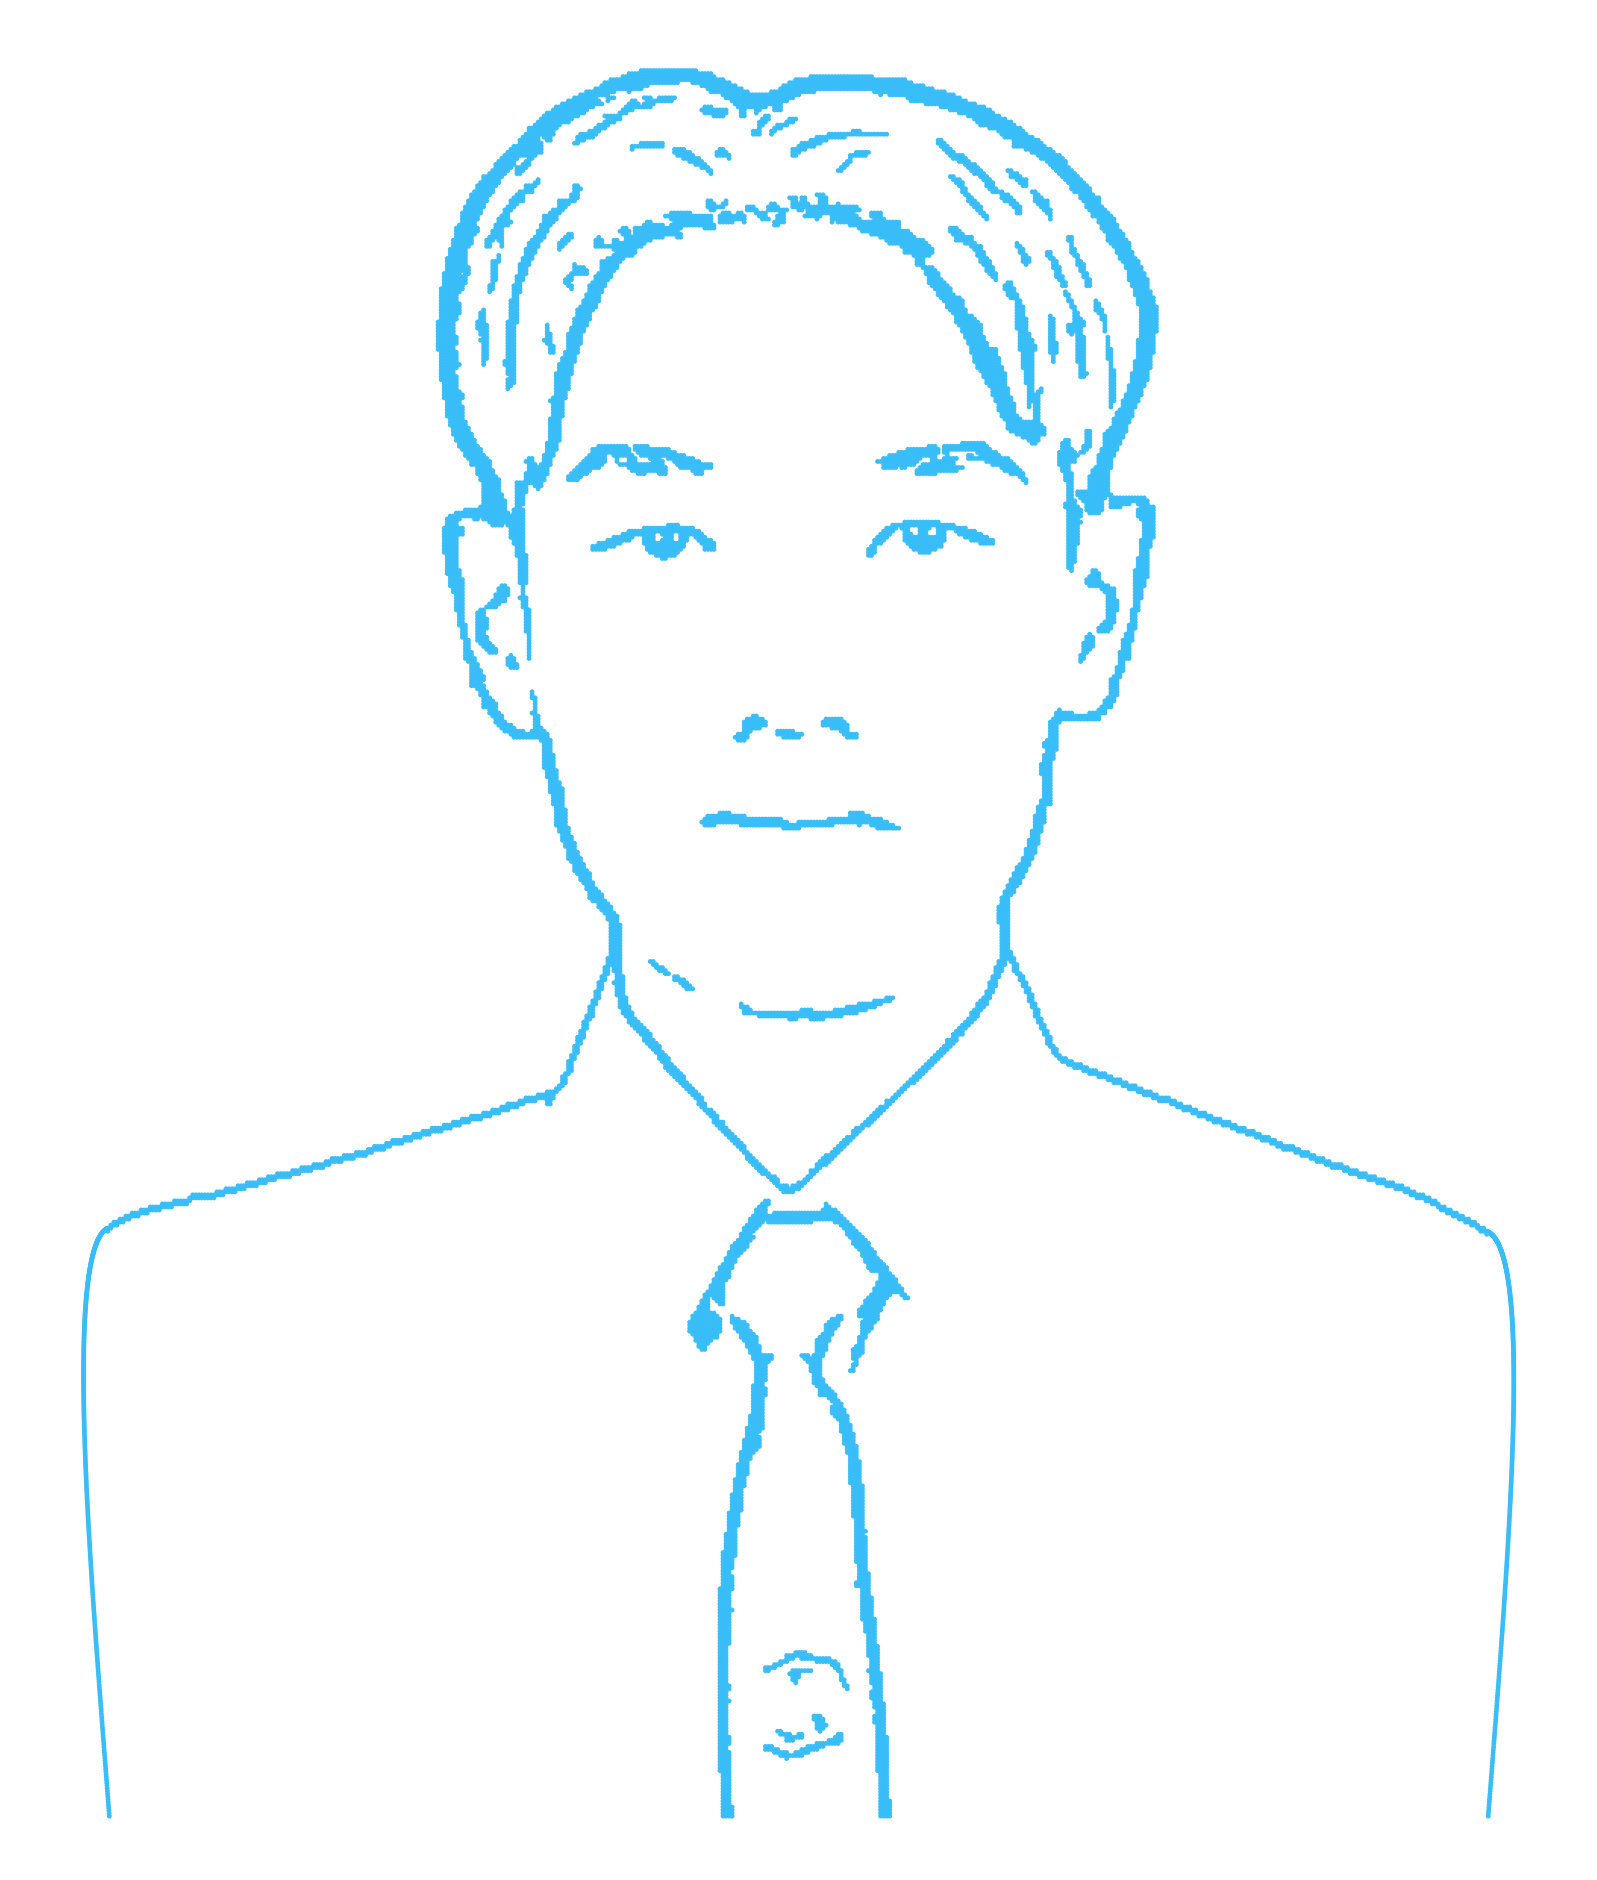
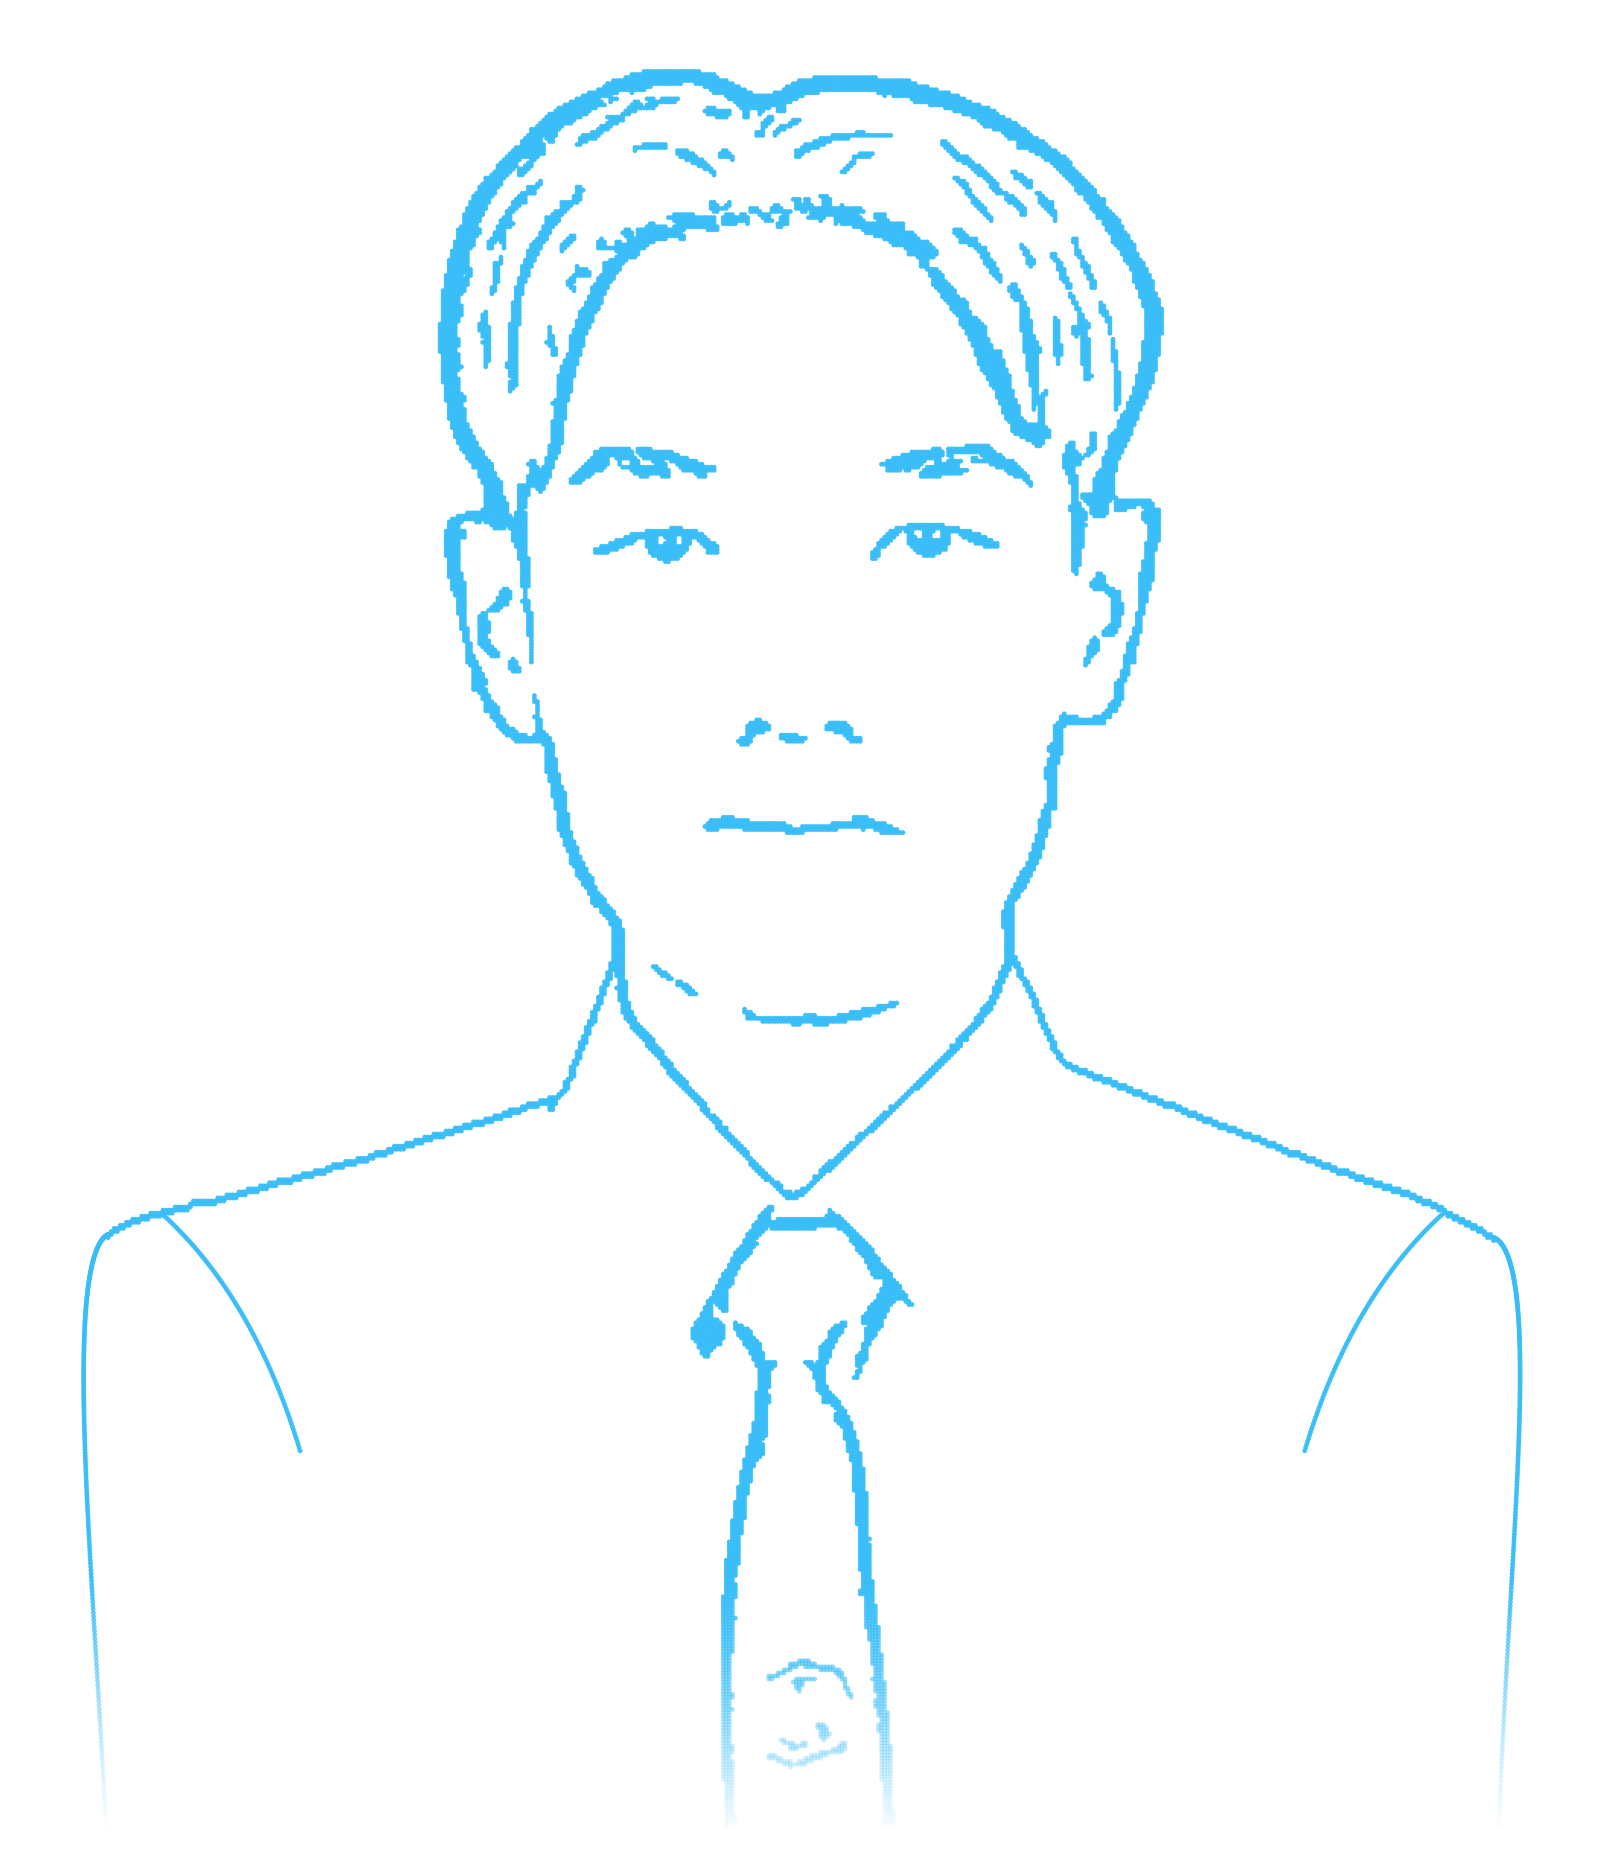
style: remove hero gray container box and border, add natural sleeve seams and soft fade to line portrait

diff --git a/css/styles.css b/css/styles.css
@@ -151,7 +151,6 @@ html.dark {
 .full-width-panel,
 .assessment-card-panel,
 .clean-capability-card,
-.hero-illustration-wrapper,
 .hero-visual-frame,
 .work-card,
 .work-org-card,
@@ -4360,32 +4359,32 @@ html.dark #back-to-top .btt-ring-circle {
    Clean & Elegant Portfolio Styles ("ธรรมดาและสวย")
    ========================================================================== */
 
-/* Hero Illustration Container */
+/* Hero Illustration Container (Pure Frameless Floating Visual) */
 .hero-illustration-wrapper {
   position: relative;
-  overflow: hidden;
-  background: var(--bg-surface);
-  border: 1px solid var(--border);
+  overflow: visible;
+  background: transparent !important;
+  border: none !important;
   border-radius: 0px;
-  box-shadow: 0 10px 30px -10px rgba(0, 0, 0, 0.06);
-  transition: transform 0.3s ease, box-shadow 0.3s ease, border-color 0.3s ease;
+  box-shadow: none !important;
+  transition: transform 0.3s cubic-bezier(0.16, 1, 0.3, 1);
 }
 
 .hero-illustration-wrapper:hover {
-  transform: translateY(-3px);
-  box-shadow: 0 20px 40px -12px rgba(0, 0, 0, 0.1);
-  border-color: var(--border-hover);
+  transform: translateY(-2px);
+  box-shadow: none !important;
+  border: none !important;
 }
 
 [data-theme="dark"] .hero-illustration-wrapper {
-  background: #18181B;
-  border-color: #27272A;
-  box-shadow: 0 10px 30px -10px rgba(0, 0, 0, 0.4);
+  background: transparent !important;
+  border: none !important;
+  box-shadow: none !important;
 }
 
 [data-theme="dark"] .hero-illustration-wrapper:hover {
-  border-color: #3F3F46;
-  box-shadow: 0 20px 40px -12px rgba(0, 0, 0, 0.6);
+  box-shadow: none !important;
+  border: none !important;
 }
 
 /* ==========================================================================
